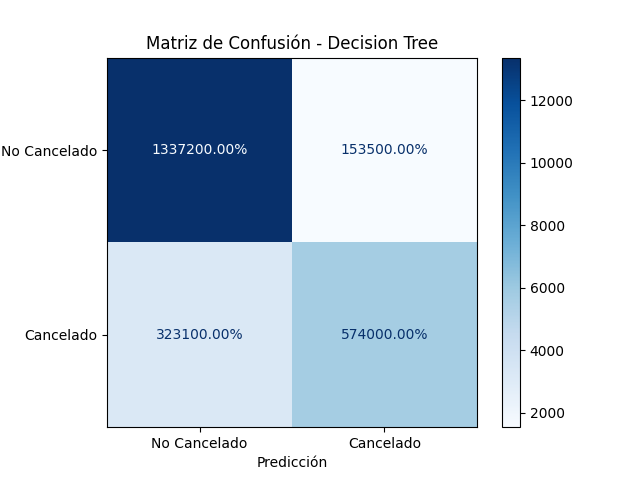
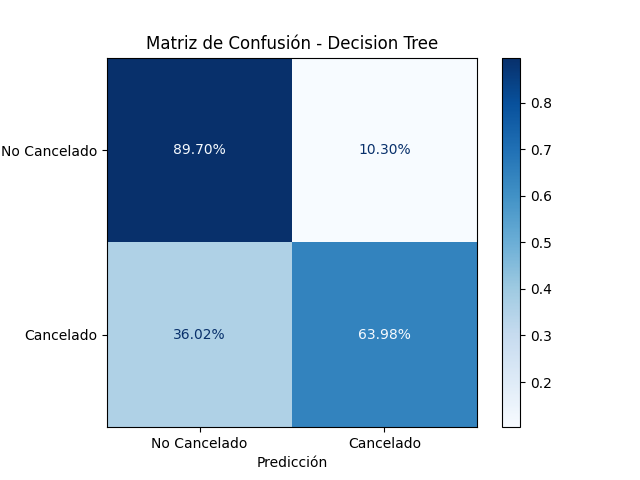
Comentarios, ajustes de linea, normalizacion de  matriz de confusion, orden de librerias.Mejora del output de consola. Implentancion  preliminar modelo keras de tensorflow

diff --git a/main.py b/main.py
@@ -1,14 +1,12 @@
-
-
 from src.config import DICT_MODELS, IRRELEVANT_COLUMNS, RAW_DATA_PATH, PROCESSED_DATA_PATH, TARGET_COLUMN
-from src.data_loader import preparar_datos,generar_csv_datos_preprocesados, cargar_datos
-from src.model_trainer import dividir_datos, entrenar_modelos, escalar_datos
-from src.evaluator import distribucion_variable_objetivo,evaluar_modelos, generar_matriz_confusion
+from src.data_loader import cargar_datos, preparar_datos, generar_csv_datos_preprocesados 
+from src.model_trainer import dividir_datos, escalar_datos, entrenar_modelos
 from src.predictor import obtener_predicciones, obtener_predicciones_proba
+from src.evaluator import distribucion_variable_objetivo,evaluar_modelos, generar_matriz_confusion
 
 def main():
     print("======== PIPELINE INICIADA ==========")
-    
+ 
     print(f"\n[1/9] Cargando datos brutos desde el archivo: {RAW_DATA_PATH}...") 
     df_raw = cargar_datos()
 
@@ -42,14 +40,53 @@ def main():
     
     print("\n=== RESULTADOS ===")
     print(df_results.to_string(index=False))
+    print("=" * 100)
+    for i, row in df_results.iterrows():
+        print(f"Modelo: {row['Modelo']}")
+        print(f"Accuracy: {row['Accuracy']:.4f}")
+        print(f"Precisión: {row['Precisión']:.4f}")
+        print(f"Recall: {row['Recall']:.4f}")
+        print(f"F1: {row['F1']:.4f}")
+        print(f"AUC: {row['AUC']:.4f}")
+        print(f"MSE (Error cuadrático medio): {row['MSE']:.4f}")
+        print(f"RMSE (Raíz del error cuadrático medio): {row['RMSE']:.4f}")
+        print(f"MAE (Error absoluto medio): {row['MAE']:.4f}")
+        print(f"R2 (Coeficiente de determinación): {row['R2']:.4f}")
+        print(f"El modelo explica aproximadamente el {row['R2']:.2%} de la varianza")
+        print("-" * 60)
    
     # Exportar matriz de confusión para el mejor modelo
     generar_matriz_confusion(y_test, predictions)
+
+
+    print("\n=== RESULTADOS TENSORFLOW (Keras) ===")
+    keras_model(X_train, y_train, X_test, y_test)
 
     # Guardar resultados del mejor modelo
     #save_confusion_matrix(models[best_model_name], X_test, y_test, best_model_name)
     #save_best_model(models[best_model_name], best_model_name)
 
+
+from tensorflow.keras import layers, models
+import tensorflow as tf
+def keras_model(X_train, y_train, X_test, y_test):
+    model = models.Sequential()
+    model.add(layers.Input(shape=(X_train.shape[1],)), name='input_layer')
+    model.add(layers.Dense(128, activation='relu'), name='hidden_layer_1')
+    model.add(layers.Dense(64, activation='relu'), name='hidden_layer_2')
+    model.add(layers.Dense(32, activation='relu'), name='hidden_layer_3')
+    model.add(layers.Dense(1, activation='sigmoid'), name='output_layer')
+    optimizer_adam = tf.keras.optimizers.Adam(learning_rate=0.001)
+    model.compile(optimizer=optimizer_adam, loss='binary_crossentropy', metrics=['accuracy'])
+
+    history_dp = model.fit(X_train, y_train, epochs=150, validation_split=0.2, verbose=1)
+
+    y_pred_prob = model.predict(X_test)
+
+    # Evaluamos el modelo en el conjunto de prueba
+    loss_dp, accuracy_dp = model.evaluate(X_test, y_test)
+    print(f"Test Loss: {loss_dp:.4f}, Test Accuracy: {accuracy_dp:.4f}")
+    return model
 
 if __name__ == "__main__":
     main()

diff --git a/src/model_trainer.py b/src/model_trainer.py
@@ -3,29 +3,28 @@ from sklearn.model_selection import GridSearchCV, train_test_split
 from sklearn.preprocessing import StandardScaler
 from src.config import DICT_MODEL_PARAMS, TARGET_COLUMN
 
-def dividir_datos(df_preprocessed: pd.DataFrame):
-        
-        # Eliminamos la columna is_canceled de las variables independientes
-        X = df_preprocessed.drop(columns=[TARGET_COLUMN])
-        y = df_preprocessed[TARGET_COLUMN]
+def dividir_datos(df_preprocessed: pd.DataFrame): 
+    # Eliminamos la columna is_canceled de las variables independientes
+    X = df_preprocessed.drop(columns=[TARGET_COLUMN])
+    y = df_preprocessed[TARGET_COLUMN]
 
-        # Hacemos un train-test split
-        X_train, X_test, y_train, y_test = train_test_split(X, y, test_size=0.2, random_state=42)
-        return X_train, X_test, y_train, y_test
+    # Hacemos un train-test split
+    X_train, X_test, y_train, y_test = train_test_split(X, y, test_size=0.2, random_state=42)
+    return X_train, X_test, y_train, y_test
 
 def escalar_datos(X_train, X_test, y_train, y_test, ):
     # Escalar características
-      scaler = StandardScaler()
-      X_train = scaler.fit_transform(X_train)
-      X_test = scaler.transform(X_test)
-      return X_train, X_test, y_train, y_test
+    scaler = StandardScaler()
+    X_train = scaler.fit_transform(X_train)
+    X_test = scaler.transform(X_test)
+    return X_train, X_test, y_train, y_test
 
 def entrenar_modelos(models, X_train, y_train):
     # Entrenamos los modelos usando GridSearchCV para encontrar los mejores hiperparámetros
     for model_name, model in models.items():
 
         dict_parametros = get_model_params(model) # Obtenemos los parámetros segun el algoritmo del modelo
-        model = GridSearchCV(model, dict_parametros, cv=3, scoring='accuracy', n_jobs=-1)
+        model = GridSearchCV(model, dict_parametros, cv=3, scoring='accuracy', n_jobs=-1, refit=True)
 
         model.fit(X_train, y_train)
 
@@ -35,7 +34,7 @@ def entrenar_modelos(models, X_train, y_train):
         print(f"Mejor score obtenido: {model.best_score_:.2%}")
         print(f"==============================")
 
-        # Guardamos directamente el modelo óptimo (GridSearchCV ya lo reentrenó sobre X_train)
+        # Guardamos directamente el modelo óptimo (GridSearchCV ya lo reentrenó(refit) sobre X_train)
         models[model_name] = model.best_estimator_
 
     return models

diff --git a/src/config.py b/src/config.py
@@ -1,6 +1,7 @@
 
 from pathlib import Path
 from sklearn.ensemble import RandomForestClassifier, GradientBoostingClassifier
+from lightgbm import LGBMClassifier
 from sklearn.tree import DecisionTreeClassifier
 from sklearn.linear_model import LogisticRegression
 
@@ -30,8 +31,9 @@ IRRELEVANT_COLUMNS = [
 DICT_MODELS = {
     'Decision Tree': DecisionTreeClassifier(random_state=42),
     'Random Forest': RandomForestClassifier(random_state=42),
+    'LightGBM': LGBMClassifier(random_state=42),
+    'Logistic Regression': LogisticRegression(random_state=42),
     'Gradient Boosting': GradientBoostingClassifier(random_state=42),
-    'Logistic Regression': LogisticRegression(random_state=42)
 }
 
 DICT_MODEL_PARAMS = {
@@ -51,8 +53,26 @@ DICT_MODEL_PARAMS = {
         # 'solver': ['liblinear'],
         # 'penalty': ['l1', 'l2'],
          'C': [0.01],
-         'max_iter': [50],
+         'max_iter': [10],
          'solver': ['liblinear'],
          'penalty': ['l1', 'l2'],
+    },
+    'LGBMClassifier': {
+        # 'n_estimators': [100, 200],
+        # 'learning_rate': [0.03, 0.1],
+        # 'max_depth': [6, 10],
+        # 'num_leaves': [31, 63]
+       'n_estimators': [5,10],
+       'learning_rate': [0.03,0.1],
+       'max_depth': [6, 10],
+       'num_leaves': [3, 6]
+    },
+    'GradientBoostingClassifier': {
+        # 'n_estimators': [100, 200],
+        # 'learning_rate': [0.03, 0.1],
+        # 'max_depth': [3, 5, 7]
+        'n_estimators': [10, 20],
+        'learning_rate': [0.03, 0.1],
+        'max_depth': [3, 5, 7]
     }
 }

diff --git a/src/evaluator.py b/src/evaluator.py
@@ -48,12 +48,13 @@ def distribucion_variable_objetivo(df, target_column):
     plt.savefig(OUTPUTS_DIR / f"distribucion_{target_column}.png")
     plt.close()
 
-def generar_matriz_confusion(y_test, y_pred):
-    for model_name, y_pred_model in y_pred.items():
-        cm = confusion_matrix(y_test, y_pred_model)
+# Metodo para generar fichero png con una visualización de la matriz de confusión del modelo que se evalúa.
+def generar_matriz_confusion(y_test, y_preds):
 
+    for model_name, y_pred_model in y_preds.items():
+        cm = confusion_matrix(y_test, y_pred_model, normalize='true')
         disp = ConfusionMatrixDisplay(confusion_matrix=cm, display_labels=['No Cancelado', 'Cancelado'])
-        disp.plot(cmap=plt.cm.Blues,values_format='.2%')
+        disp.plot(cmap=plt.cm.Blues, values_format='.2%')
         plt.title(f'Matriz de Confusión - {model_name}')
         plt.xlabel('Predicción')
         plt.ylabel('Real')
